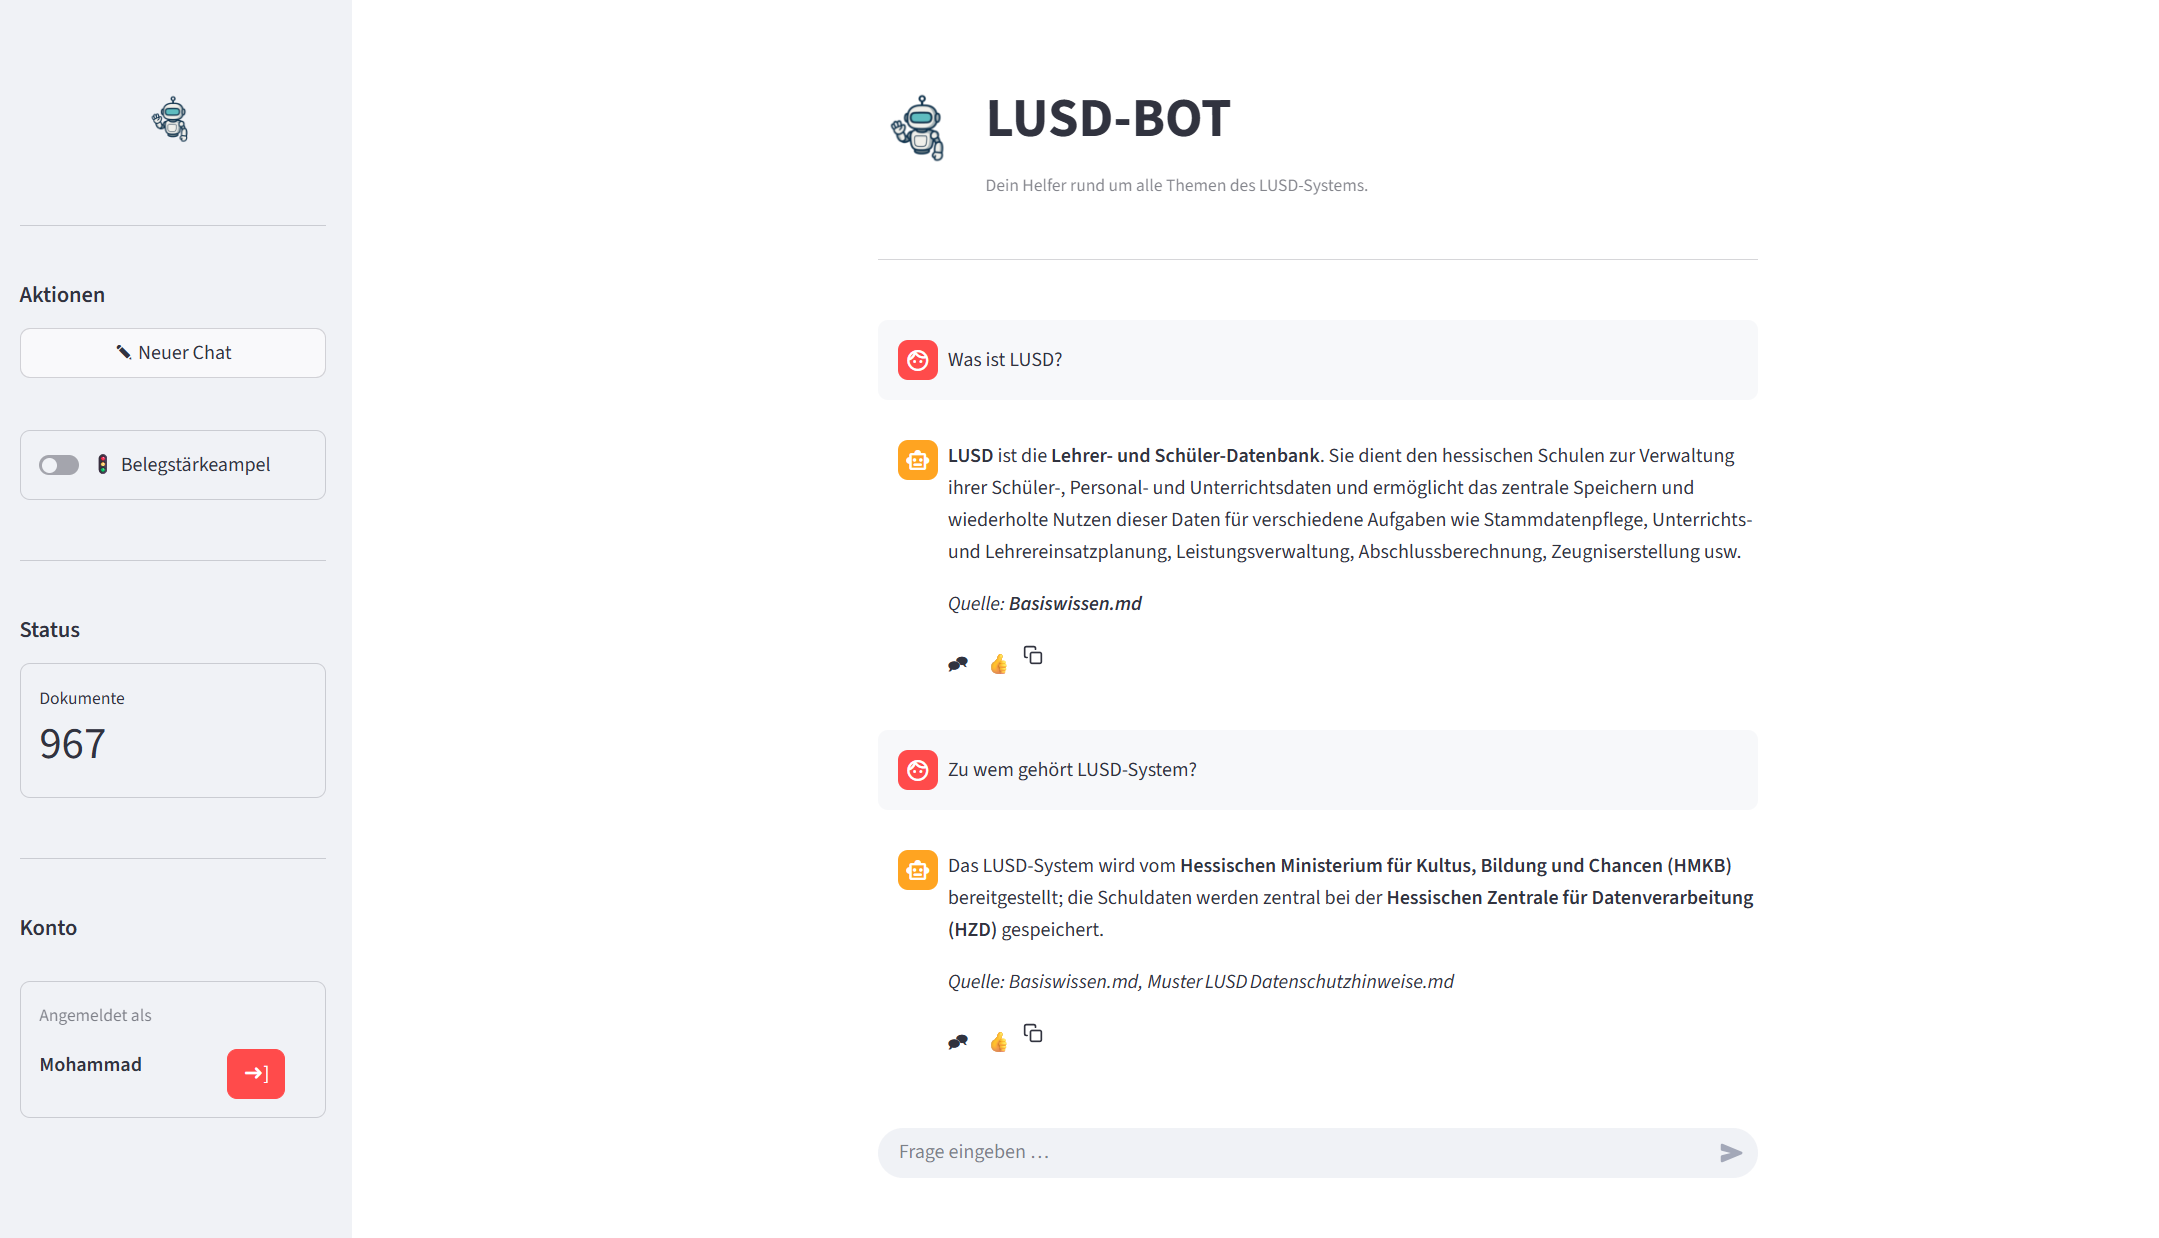
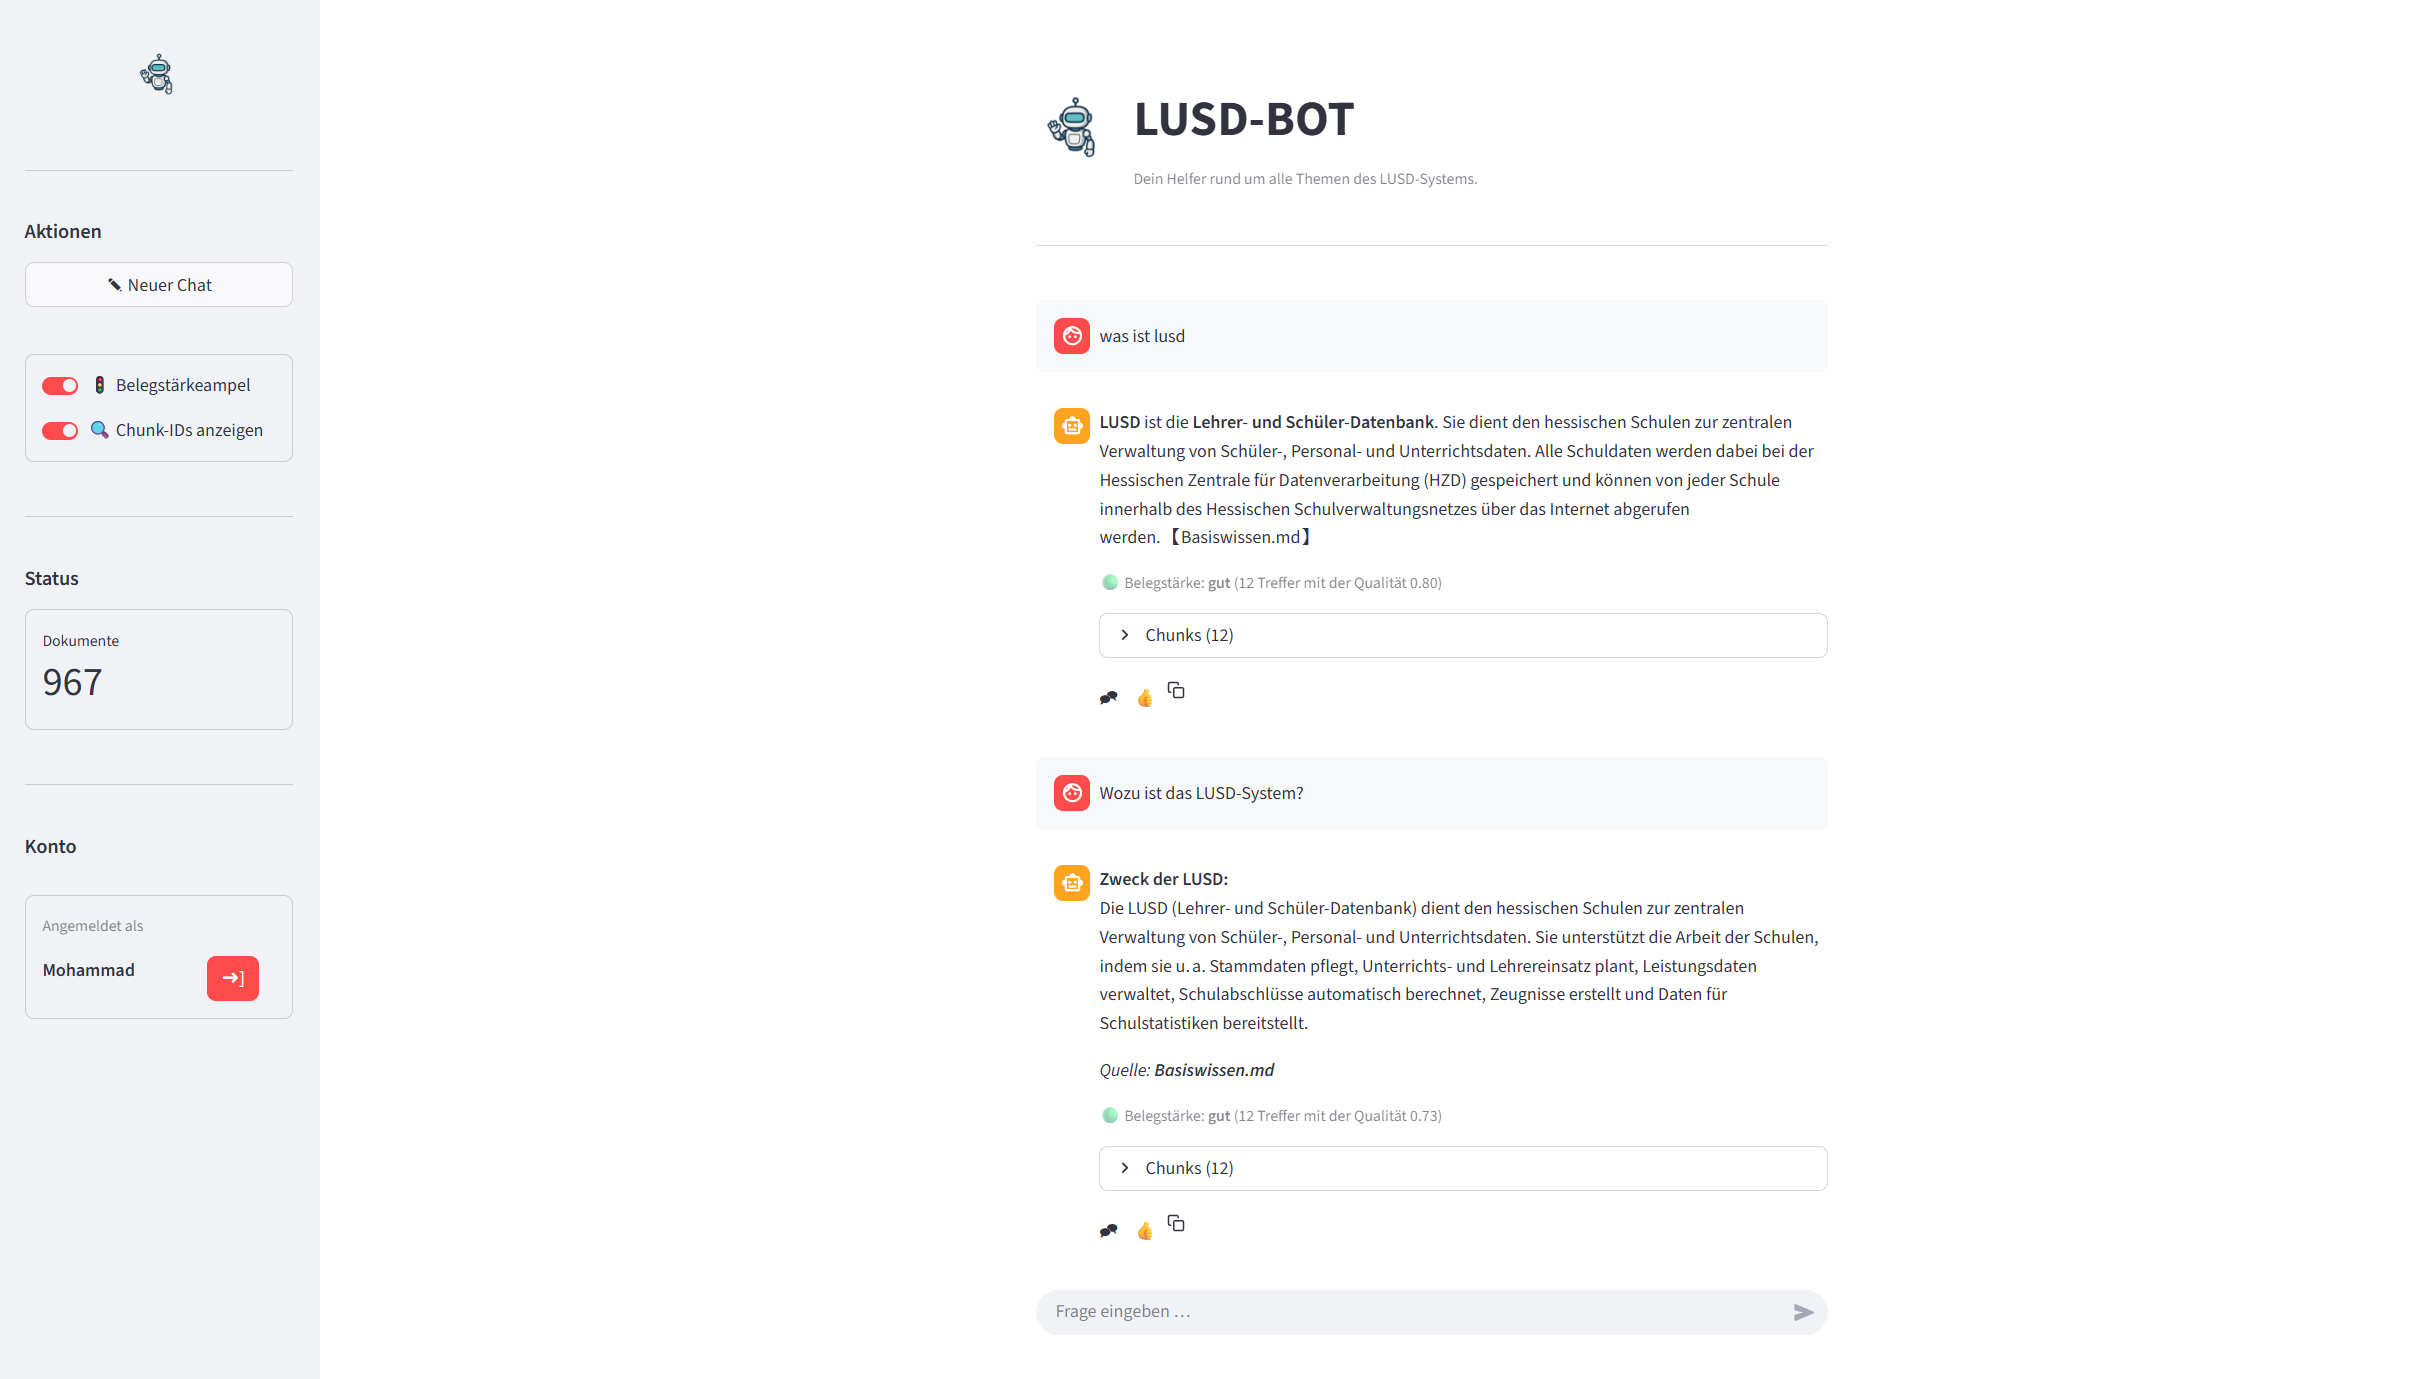
update

diff --git a/src/app/data/portfolio-data.ts b/src/app/data/portfolio-data.ts
@@ -5,26 +5,26 @@ export type FocusItem = {
 };
 
 export type Project = {
-  title: string;
-  description: string;
-  tags: string[];
-  highlights: string[];
-  demo?: string;
-  repo?: string;
-  imageUrl?: string;
-  archiUrl?: string;
+    title: string;
+    description: string;
+    tags: string[];
+    highlights: string[];
+    demo?: string;
+    repo?: string;
+    imageUrl?: string;
+    archiUrl?: string;
 };
 
 export type Book = {
-  title: string;
-  author?: string;
-  takeaways: string[];
-  appliedIn?: string;
+    title: string;
+    author?: string;
+    takeaways: string[];
+    appliedIn?: string;
 };
 
 export type SkillGroup = {
-  group: string;
-  items: string[];
+    group: string;
+    items: string[];
 };
 
 export const PROFILE = {
@@ -74,17 +74,17 @@ export const PROFILE = {
 
 export const PROJECTS: Project[] = [
     {
-        title: 'RAG-Chatbot │ topdev GmbH, Erufrt',
-        description: 'KI-Agent, der internes Wissen per semantischer Suche zuverlässig als Antworten bereitstellt.',
-        tags: ['Python', 'Streamlit (UI)', 'ChromaDB',],
+        title: 'KI-Agent │ topdev GmbH, Erufrt',
+        description: 'RAG-Chatbot, der internes Wissen per semantischer Suche zuverlässig als Antworten bereitstellt.',
+        tags: ['Python', 'LangChain', 'Streamlit (UI)', 'ChromaDB',],
         highlights: [
-          'RAG-Chatbot für die LUSD (Lehrer- und Schülerdatenbank) zur Beantwortung von Fach- und Anwenderfragen entwickelt',
-          'Interaktive Weboberfläche mit Streamlit umgesetzt',
-          'Ingestion- und Update-Pipeline auf Basis von LangChain automatisiert',
-          'Dokumentquellen (Word, Excel, PDF, HTML) konsolidiert, nach Markdown überführt und in einer Vektordatenbank für Retrieval indexiert',
-          'Qualitätssicherung durch automatisierte Tests mit Pytest',
-          'Logging und Monitoring zur Nachvollziehbarkeit und Stabilität integriert',
-          'Zugriffsschutz über Authentifizierung realisiert',
+            'RAG-Chatbot für die LUSD (Lehrer- und Schülerdatenbank) zur Beantwortung von Fach- und Anwenderfragen entwickelt',
+            'Interaktive Weboberfläche mit Streamlit umgesetzt',
+            'Ingestion- und Update-Pipeline auf Basis von LangChain automatisiert',
+            'Dokumentquellen (Word, Excel, PDF, HTML) konsolidiert, nach Markdown überführt und in einer Vektordatenbank für Retrieval indexiert',
+            'Qualitätssicherung durch automatisierte Tests mit Pytest',
+            'Logging und Monitoring zur Nachvollziehbarkeit und Stabilität integriert',
+            'Zugriffsschutz über Authentifizierung realisiert',
         ],
         demo: 'https://lusd-ki-bot.topdev.de/',
         imageUrl: 'assets/projects/lusd_chatbot.png',
@@ -103,15 +103,18 @@ export const PROJECTS: Project[] = [
         demo: 'https://mohammad-taiba.netlify.app/',
         imageUrl: 'assets/projects/portfolio.png',
     }
-,
+    ,
     {
-        title: 'RAG-Chatbot │ Bachelorarbeit',
-        description: 'Ersetze das durch dein drittes starkes Projekt (mit Impact und Ergebnissen).',
-        tags: ['Python', 'Streamlit (UI)', 'ChromaDB',],
+        title: 'KI-Agent │ Bachelorarbeit',
+        description:
+            'GPT-basierter RAG-Chatbot zur Analyse von Nachhaltigkeitsberichten (DNK) mit automatisierter Dokumentenaufnahme und kontinuierlich aktualisierter Vektor-Wissensbasis.',
+        tags: ['Python', 'LangChain', 'Streamlit (UI)', 'ChromaDB', 'Ollama'],
         highlights: [
-          'Problem -> Losung -> Ergebnis (mit Metriken)',
-          'Technische Entscheidungen kurz begrunden',
-          'Screenshots / GIFs / Demo Link',
+            'RAG-Chatbot: ChromaDB-Retrieval + GPT-Antworten',
+            'Ingestion-Datenpipeline: Scraping (PDF/Webseiten) → Markdown → Cleaning → Index',
+            'Interaktive Weboberfläche mit Streamlit umgesetzt',
+            'Logging und Monitoring zur Nachvollziehbarkeit und Stabilität integriert',
+            'Evaluation als qualitativer Testprozess (Relevanz, Nachvollziehbarkeit, Konsistenz, Verständlichkeit) sowie Embedder-Vergleich und Chunking-Vergleich'
         ],
         imageUrl: 'assets/projects/bachelor_chatbot.png',
         archiUrl: 'assets/projects/bachelor_architektur.png',
@@ -182,17 +185,20 @@ export const BOOKS: Book[] = [
 ];
 
 export const SKILL_GROUPS: SkillGroup[] = [
-    { group: 'Programmiersprachen', items: ['Python', 'Java', 'TypeScript', 'JavaScript', 'C#', 'C/C++', 'PHP'] },
+    {group: 'Programmiersprachen', items: ['Python', 'Java', 'TypeScript', 'JavaScript', 'C#', 'C/C++', 'PHP']},
 
-    { group: 'Frontend', items: ['Angular', 'React', 'Next.js', 'HTML', 'CSS'] },
-    { group: 'Backend', items: ['Node.js', 'Express', 'Spring Boot', 'REST APIs'] },
+    {group: 'Frontend', items: ['Angular', 'React', 'Next.js', 'HTML', 'CSS']},
+    {group: 'Backend', items: ['Node.js', 'Express', 'Spring Boot', 'REST APIs']},
 
-    { group: 'Datenbanken', items: ['MySQL', 'MariaDB', 'MongoDB', 'ChromaDB'] },
-    { group: 'KI & LLM', items: ['RAG', 'LangChain', 'Prompt Engineering', 'Streamlit'] },
+    {group: 'Datenbanken', items: ['MySQL', 'MariaDB', 'MongoDB', 'ChromaDB']},
+    {group: 'KI & LLM', items: ['RAG', 'LangChain', 'Prompt Engineering', 'Streamlit']},
 
-    { group: 'Tools', items: ['Git', 'Docker', 'GitLab CI/CD', 'Jira', 'MS Office'] },
-    { group: 'Softskills', items: ['Eigenverantwortung', 'Proaktivität', 'Problemlösung', 'Selbstorganisation', 'Teamarbeit'] },
-    { group: 'Sprachen', items: ['Deutsch (C1, fließend)', 'Englisch (B2)', 'Arabisch (Muttersprache)'] },
+    {group: 'Tools', items: ['Git', 'Docker', 'GitLab CI/CD', 'Jira', 'MS Office']},
+    {
+        group: 'Softskills',
+        items: ['Eigenverantwortung', 'Proaktivität', 'Problemlösung', 'Selbstorganisation', 'Teamarbeit']
+    },
+    {group: 'Sprachen', items: ['Deutsch (C1, fließend)', 'Englisch (B2)', 'Arabisch (Muttersprache)']},
 ];
 
 export const CV = {
@@ -202,9 +208,15 @@ export const CV = {
             school: 'Fachhochschule Erfurt',
             period: '10/2022 – 03/2026',
             bullets: [
-                { label: 'Vertiefungsrichtung', text: 'Medieninformatik' },
-                { label: 'Bachelorarbeit', text: 'Entwicklung eines RAG-Systems mit automatisierter Ingestion- und Aktualisierungspipeline' },
-                { label: 'Praktikum', text: 'Entwicklung eines RAG-Systems mit UI, automatisierter Ingestion-/Aktualisierungspipeline und Testautomatisierung (topdev GmbH)' },
+                {label: 'Vertiefungsrichtung', text: 'Medieninformatik'},
+                {
+                    label: 'Bachelorarbeit',
+                    text: 'Entwicklung eines RAG-Systems mit automatisierter Ingestion- und Aktualisierungspipeline'
+                },
+                {
+                    label: 'Praktikum',
+                    text: 'Entwicklung eines RAG-Systems mit UI, automatisierter Ingestion-/Aktualisierungspipeline und Testautomatisierung (topdev GmbH)'
+                },
             ],
         },
         {
@@ -212,8 +224,11 @@ export const CV = {
             school: 'Andreas-Gordon-Schule, Erfurt',
             period: '08/2020 – 07/2022',
             bullets: [
-                { label: 'Schwerpunkt', text: 'Informationstechnik' },
-                { label: 'Praktikum', text: 'Mitarbeit an IT-Projekten, Tests, Support und technischer Dokumentation (Bechtle IT-Systemhaus)' },
+                {label: 'Schwerpunkt', text: 'Informationstechnik'},
+                {
+                    label: 'Praktikum',
+                    text: 'Mitarbeit an IT-Projekten, Tests, Support und technischer Dokumentation (Bechtle IT-Systemhaus)'
+                },
             ],
         },
     ],
@@ -224,19 +239,34 @@ export const CV = {
             company: 'topdev GmbH, Erfurt',
             period: '10/2025 – 02/2026',
             bullets: [
-                { label: 'Entwicklung', text: 'RAG-Chatbot für Lehrer- und Schülerdatenbank (LUSD) zur Beantwortung von Fach- und Anwenderfragen' },
-                { label: 'RAG-Pipeline', text: 'Automatisierte Ingestion von Word-, Excel-, PDF- und HTML-Quellen inkl. Konvertierung nach Markdown' },
-                { label: 'Retrieval', text: 'Chunking/Embeddings und Aufbau einer Vektordatenbank für semantische Suche' },
-                { label: 'Qualitätssicherung', text: 'Prompt-Engineering sowie Logging/Monitoring und Evaluation (Testfälle, Review-Sets, Testautomatisierung) zur Ergebnisprüfung' },            ],
+                {
+                    label: 'Entwicklung',
+                    text: 'RAG-Chatbot für Lehrer- und Schülerdatenbank (LUSD) zur Beantwortung von Fach- und Anwenderfragen'
+                },
+                {
+                    label: 'RAG-Pipeline',
+                    text: 'Automatisierte Ingestion von Word-, Excel-, PDF- und HTML-Quellen inkl. Konvertierung nach Markdown'
+                },
+                {
+                    label: 'Retrieval',
+                    text: 'Chunking/Embeddings und Aufbau einer Vektordatenbank für semantische Suche'
+                },
+                {
+                    label: 'Qualitätssicherung',
+                    text: 'Prompt-Engineering sowie Logging/Monitoring und Evaluation (Testfälle, Review-Sets, Testautomatisierung) zur Ergebnisprüfung'
+                },],
         },
         {
             title: 'Studentische Hilfskraft im Sachverständigenbüro',
             company: 'Sachverständigenbüro Torsten Peuckert, Erfurt',
             period: '09/2024 – 12/2024',
             bullets: [
-                { label: 'Organisation', text: 'Unterstützung bei administrativen und organisatorischen Aufgaben im Tagesgeschäft' },
-                { label: 'Dokumente', text: 'Dokumentenmanagement und strukturierte Ablage von Unterlagen' },
-                { label: 'Koordination', text: 'Termin- und Auftragskoordination sowie Datenpflege' },
+                {
+                    label: 'Organisation',
+                    text: 'Unterstützung bei administrativen und organisatorischen Aufgaben im Tagesgeschäft'
+                },
+                {label: 'Dokumente', text: 'Dokumentenmanagement und strukturierte Ablage von Unterlagen'},
+                {label: 'Koordination', text: 'Termin- und Auftragskoordination sowie Datenpflege'},
             ],
         },
         {
@@ -244,9 +274,15 @@ export const CV = {
             company: 'Carrier Refrigeration eServices GmbH, Erfurt',
             period: '09/2023 – 09/2024',
             bullets: [
-                { label: 'Datenmanagement', text: 'Erfassung und strukturierte Aufbereitung von Kunden- und Auftragsdaten' },
-                { label: 'SAP MM', text: 'Verwaltung von Bestellanforderungen im SAP R/3 MM-Modul' },
-                { label: 'Auftragsabwicklung', text: 'Fristgerechte Abwicklung und buchhalterische Verbuchung von Aufträgen' },
+                {
+                    label: 'Datenmanagement',
+                    text: 'Erfassung und strukturierte Aufbereitung von Kunden- und Auftragsdaten'
+                },
+                {label: 'SAP MM', text: 'Verwaltung von Bestellanforderungen im SAP R/3 MM-Modul'},
+                {
+                    label: 'Auftragsabwicklung',
+                    text: 'Fristgerechte Abwicklung und buchhalterische Verbuchung von Aufträgen'
+                },
             ],
         },
         {
@@ -254,9 +290,12 @@ export const CV = {
             company: 'Beck + Heun GmbH, Erfurt',
             period: '07/2021 – 08/2021',
             bullets: [
-                { label: 'Automatisierung', text: 'Automatisierung administrativer Prozesse mittels PowerShell-Skripten' },
-                { label: 'Deployments', text: 'Unterstützung bei Planung und Durchführung von Software-Deployments' },
-                { label: 'Troubleshooting', text: 'Systematische Fehleranalyse und technisches Troubleshooting' },
+                {
+                    label: 'Automatisierung',
+                    text: 'Automatisierung administrativer Prozesse mittels PowerShell-Skripten'
+                },
+                {label: 'Deployments', text: 'Unterstützung bei Planung und Durchführung von Software-Deployments'},
+                {label: 'Troubleshooting', text: 'Systematische Fehleranalyse und technisches Troubleshooting'},
             ],
         },
         {
@@ -264,9 +303,9 @@ export const CV = {
             company: 'Bechtle IT-Systemhaus Weimar',
             period: '08/2020 – 07/2021',
             bullets: [
-                { label: 'Rollouts', text: 'Mitwirkung bei IT-Projekten und Rollouts inkl. technischer Umsetzung' },
-                { label: 'Testing', text: 'Durchführung von Tests und Sicherstellung der Qualitätsstandards' },
-                { label: 'Support & Doku', text: 'Endanwender-Support und Erstellung technischer Dokumentationen' },
+                {label: 'Rollouts', text: 'Mitwirkung bei IT-Projekten und Rollouts inkl. technischer Umsetzung'},
+                {label: 'Testing', text: 'Durchführung von Tests und Sicherstellung der Qualitätsstandards'},
+                {label: 'Support & Doku', text: 'Endanwender-Support und Erstellung technischer Dokumentationen'},
             ],
         },
     ],